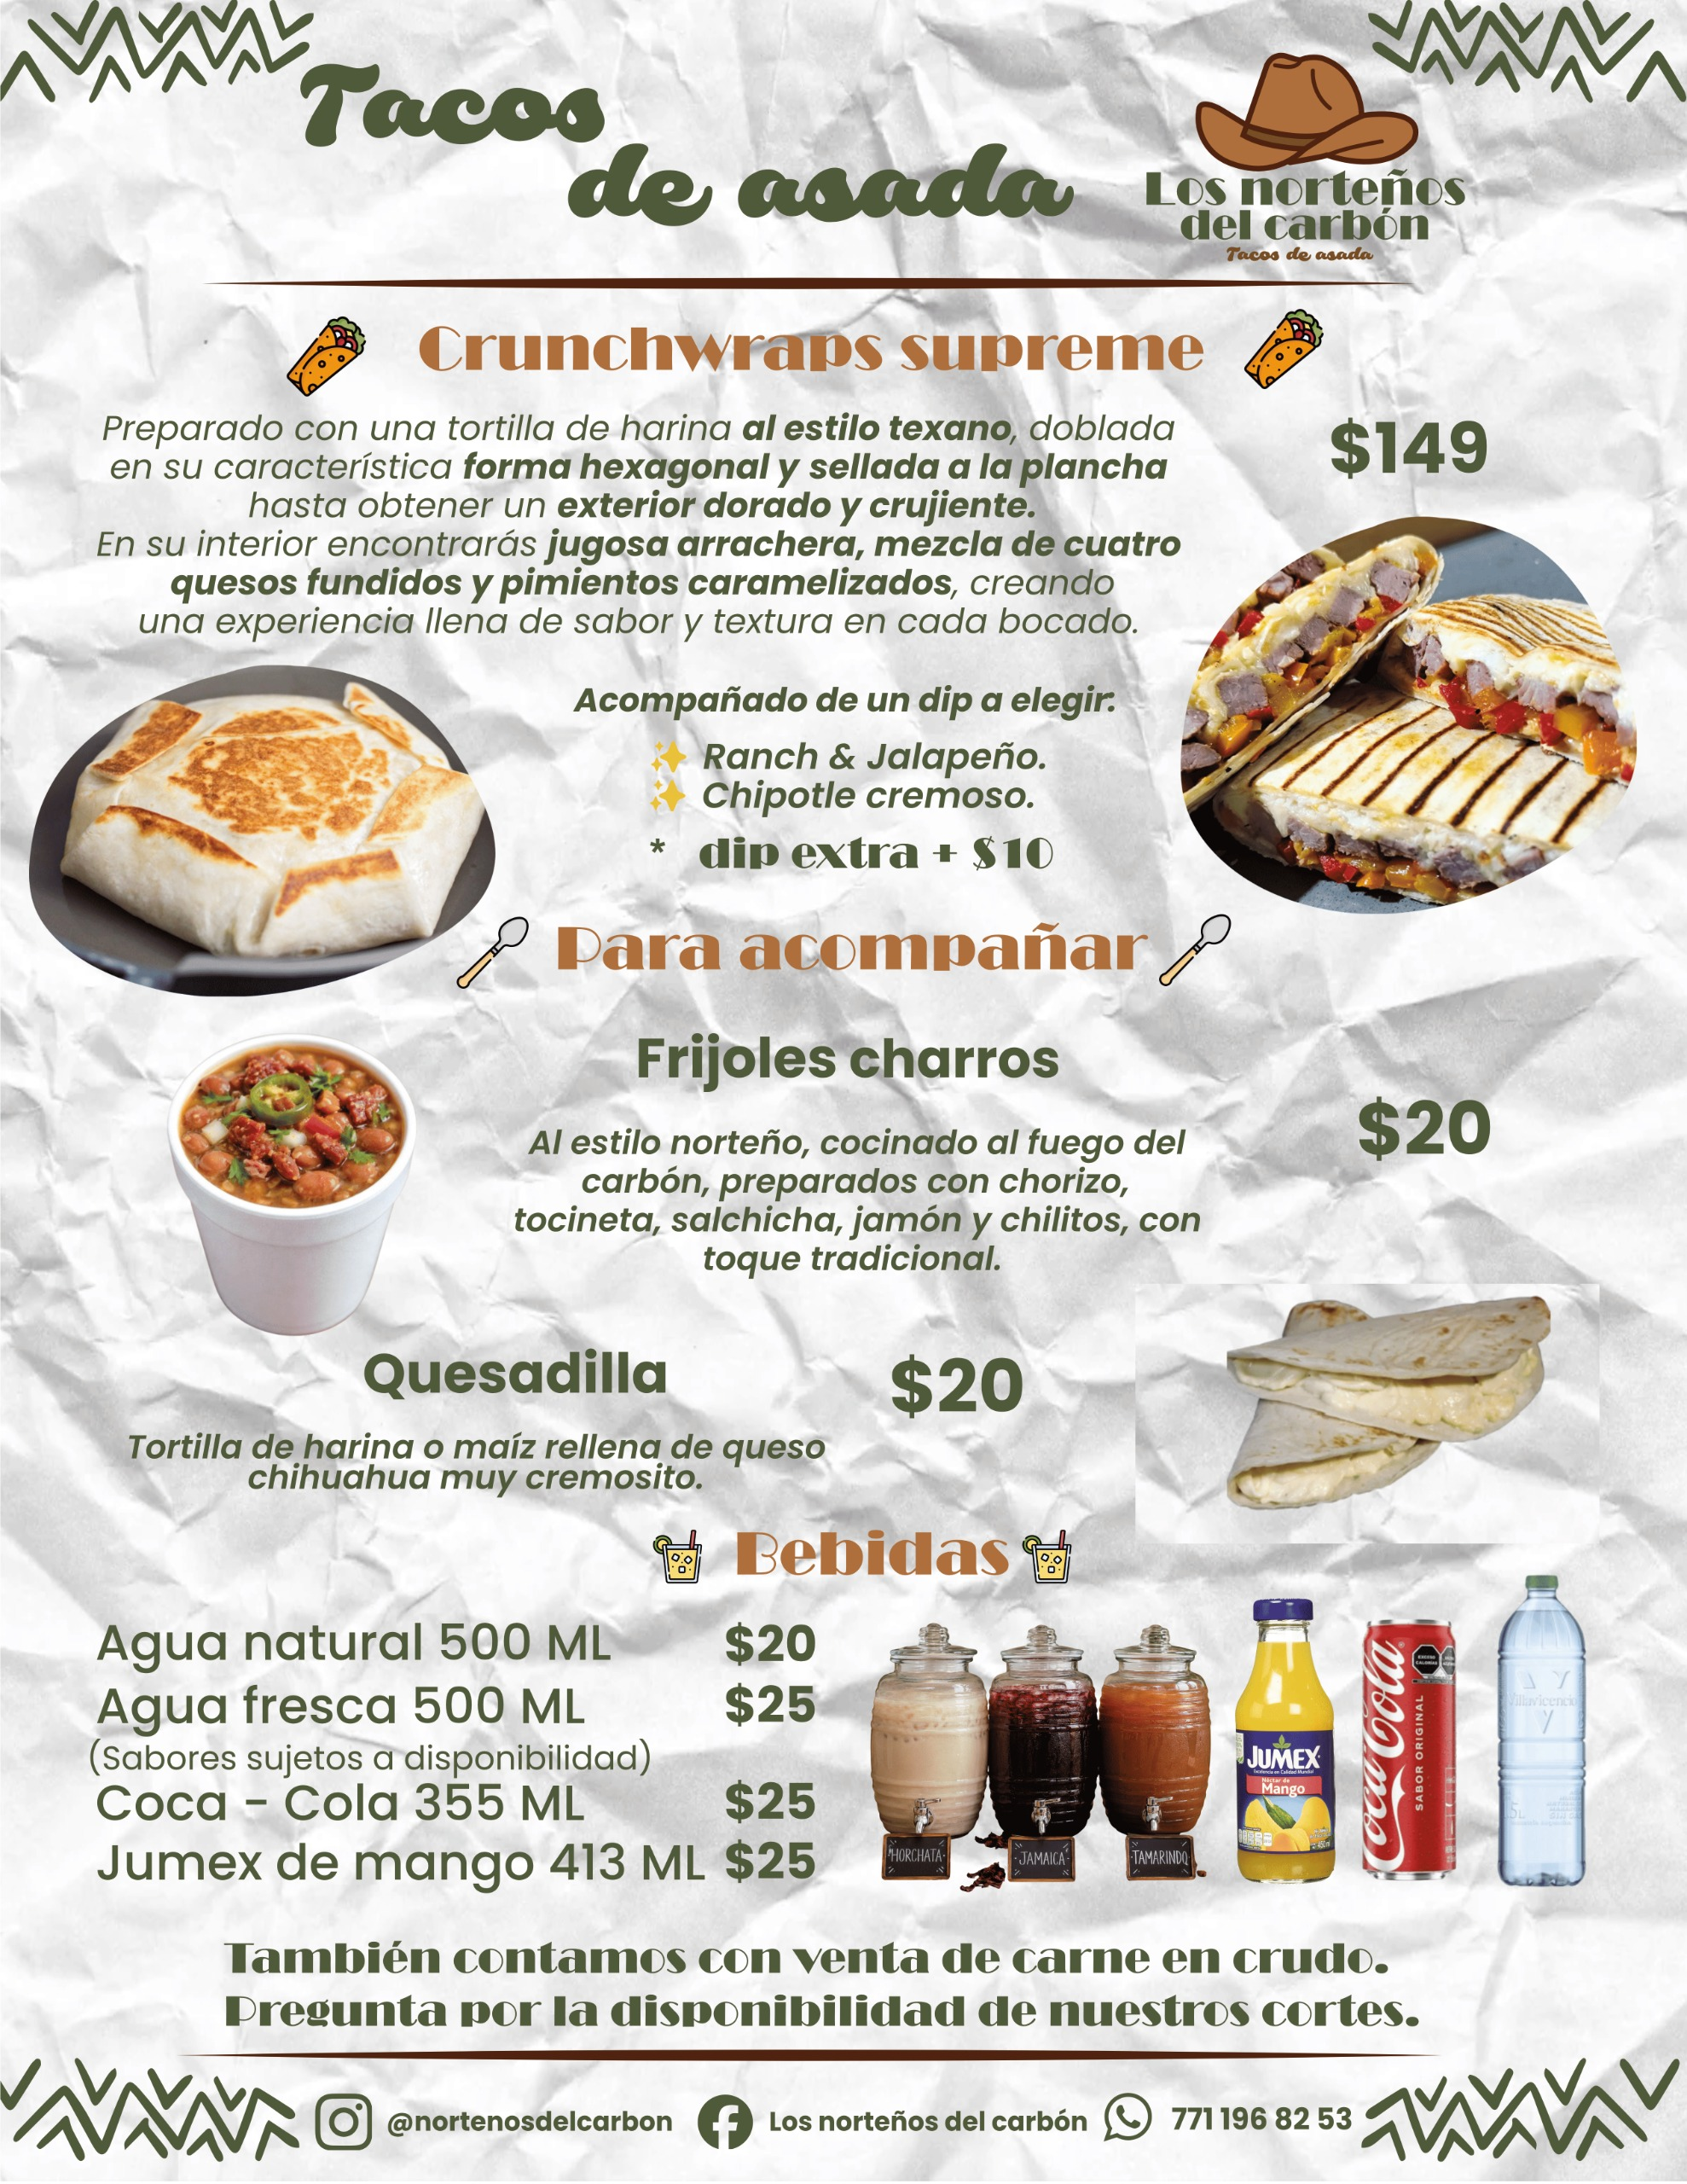
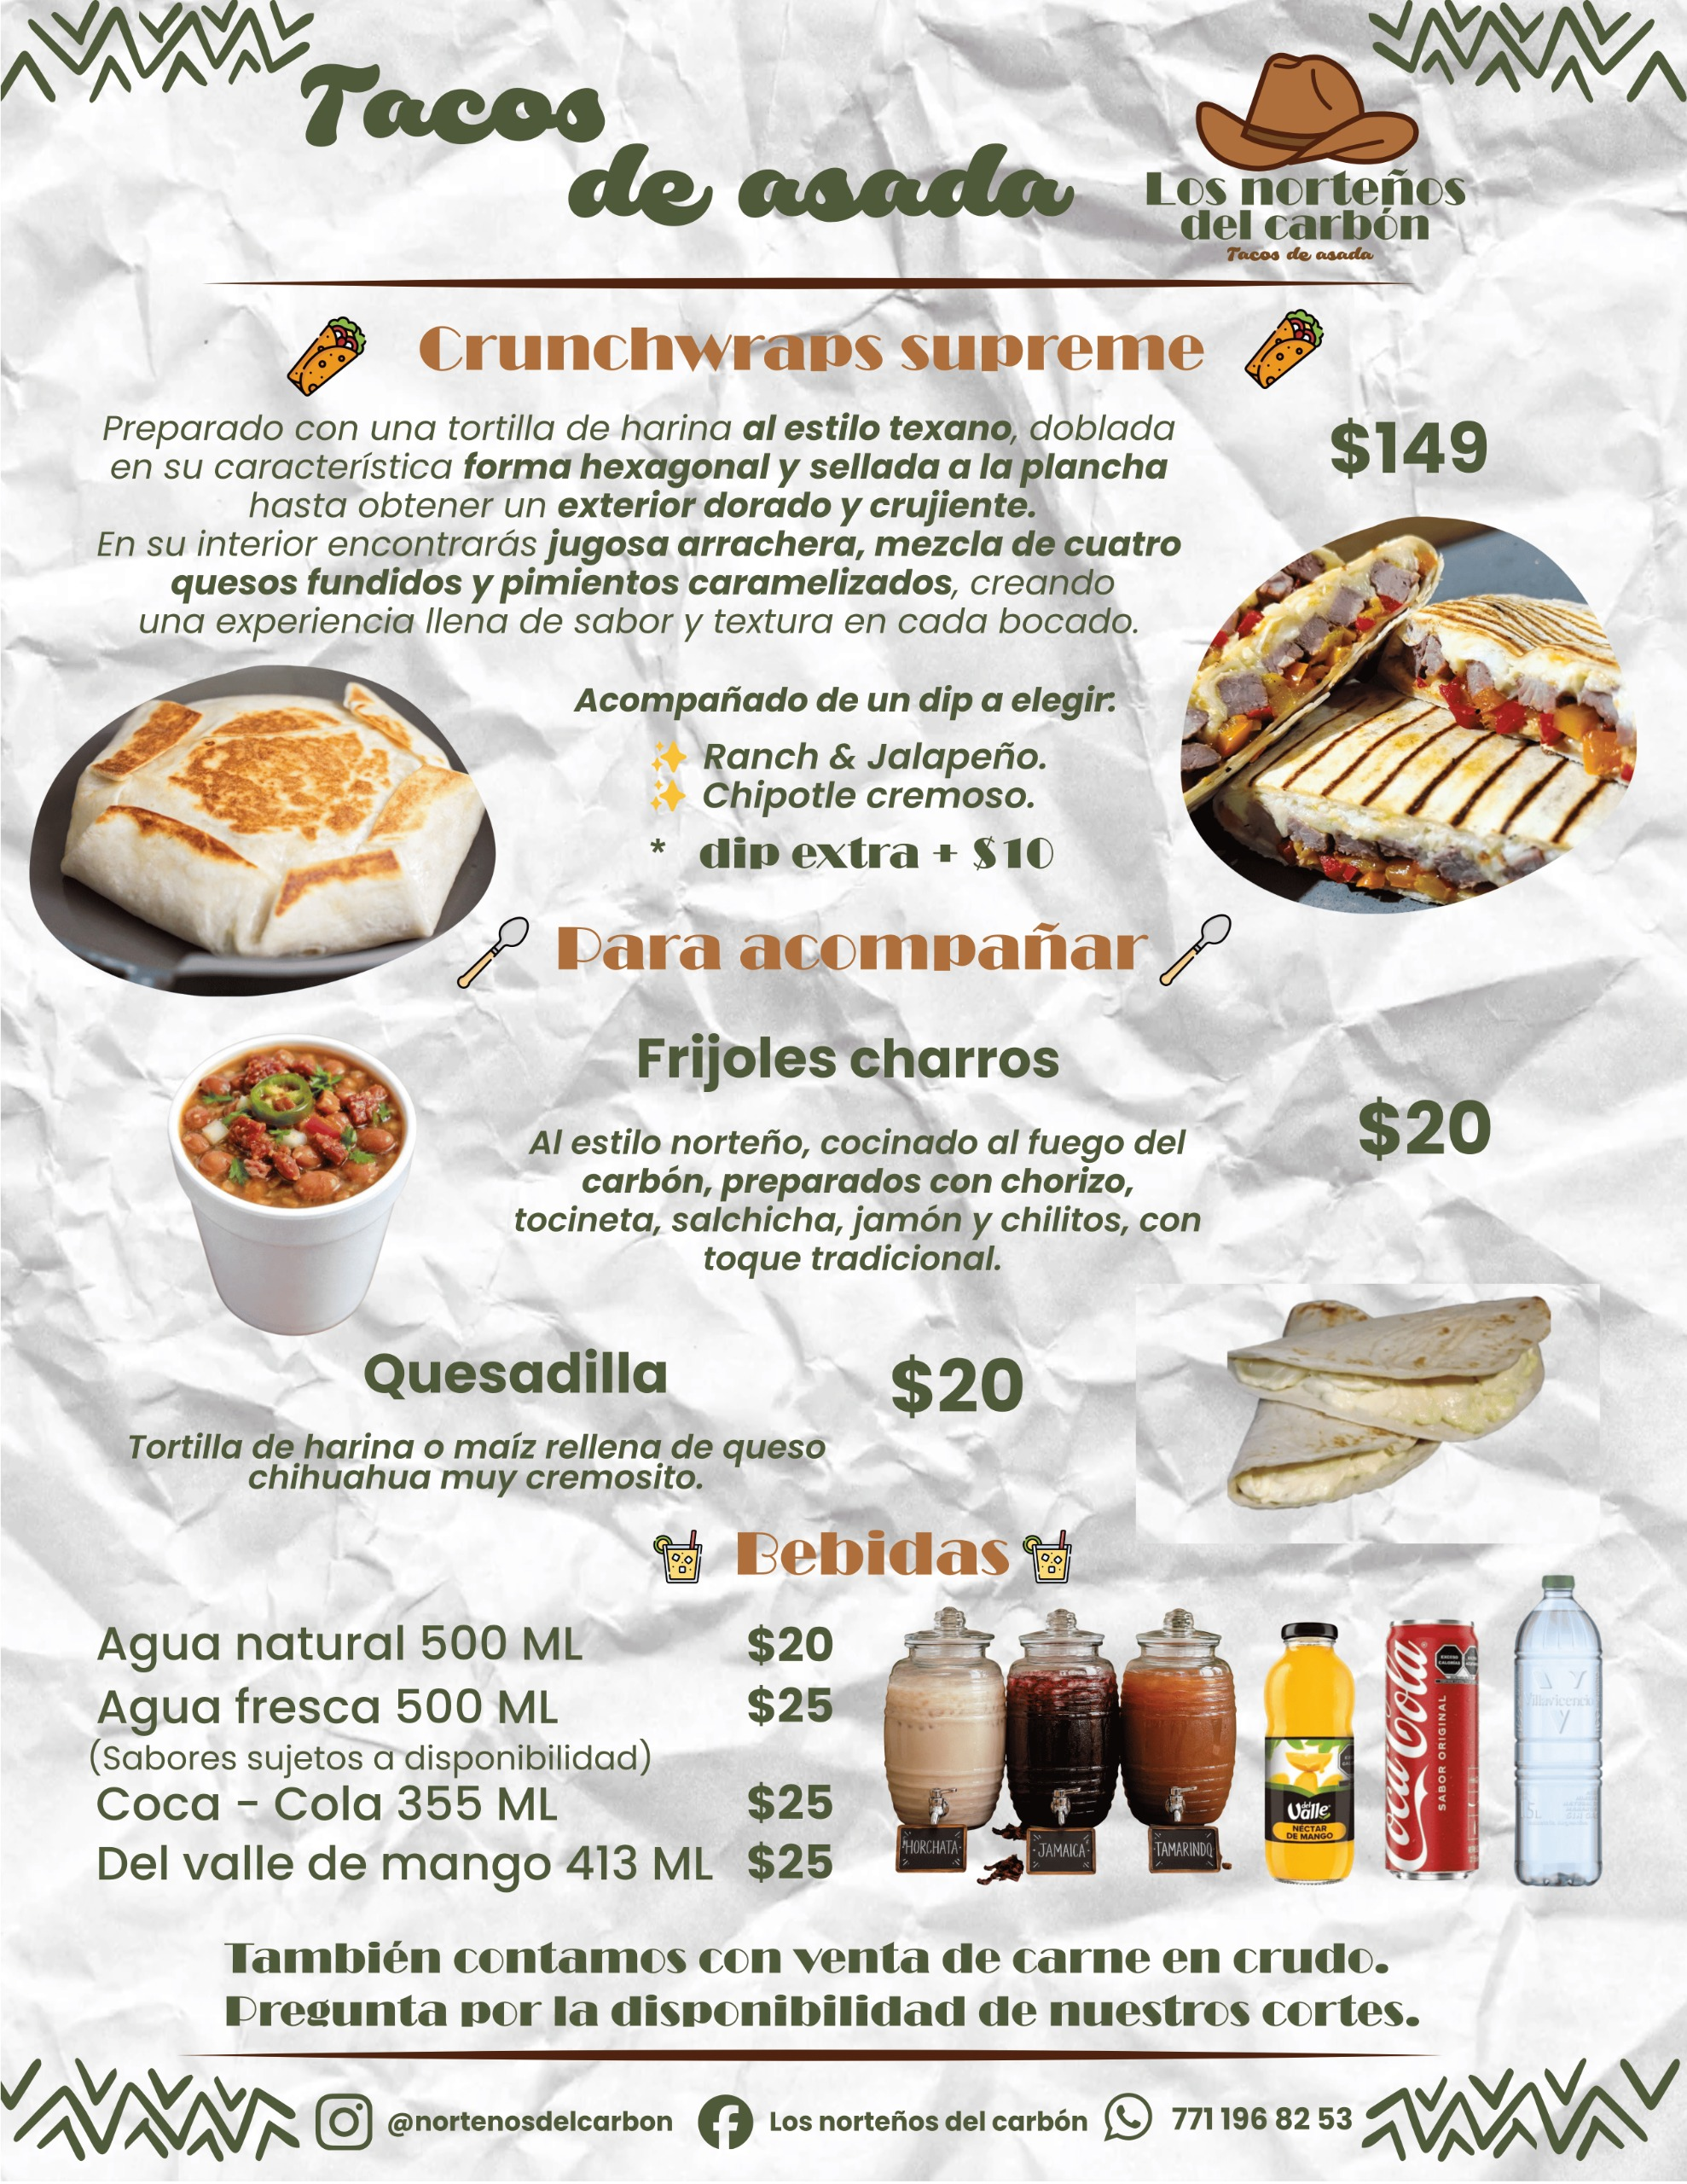
Seccion complementos

diff --git a/index.html b/index.html
@@ -239,6 +239,39 @@
         </div>
     </section>
 
+        <!-- ==========================================
+         SECCIÓN COMPLEMENTOS
+         ========================================= -->
+    <section id="complementos" class="section-padding">
+        <div class="container">
+            <h2>COMPLEMENTOS</h2>
+            <p class="section-desc">Los aliados perfectos para tu mesa parrillera. Desde embutidos artesanales y quesos fundidos de gran calidad, hasta el carbón ideal para encender la pasión por el grill. Todo lo necesario para armar el taco perfecto. 🌮🔥</p>
+            
+            <!-- Galería de imágenes de los 6 complementos sin texto -->
+            <div class="menu-grid">
+                <div class="menu-item">
+                    <img src="img/chorizoargentino.jpeg" alt="Chorizo Argentino">
+                </div>
+                <div class="menu-item">
+                    <img src="img/chistorra.jpeg" alt="Chistorra">
+                </div>
+                <div class="menu-item">
+                    <img src="img/costillaparaasar.jpeg" alt="Costilla para Asar">
+                </div>
+                <div class="menu-item">
+                    <img src="img/quesogouda.jpeg" alt="Queso Gouda">
+                </div>
+                <div class="menu-item">
+                    <img src="img/manchego.jpeg" alt="Queso Manchego">
+                </div>
+                <div class="menu-item">
+                    <img src="img/carbon.jpeg" alt="Carbón para Asar">
+                </div>
+            </div>
+        </div>
+    </section>
+
+
     <!-- ==========================================================================
      SECCIÓN DE OPINIONES
      ========================================================================== -->